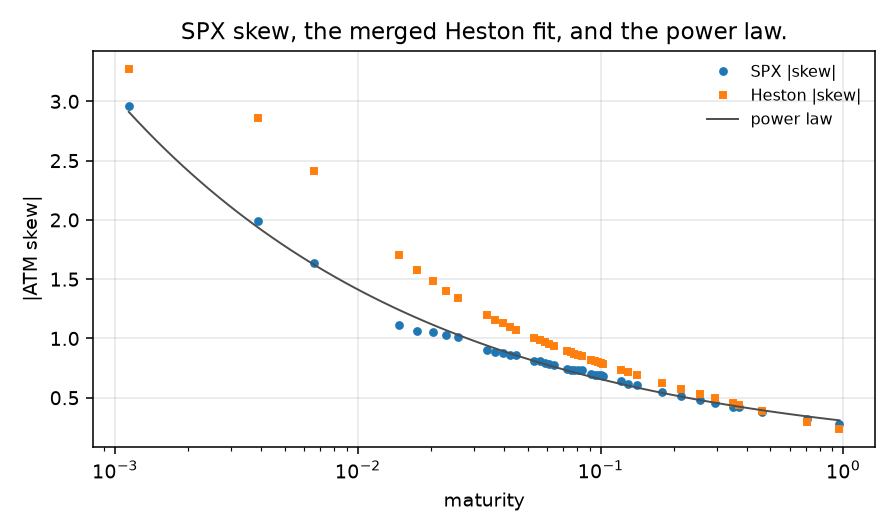
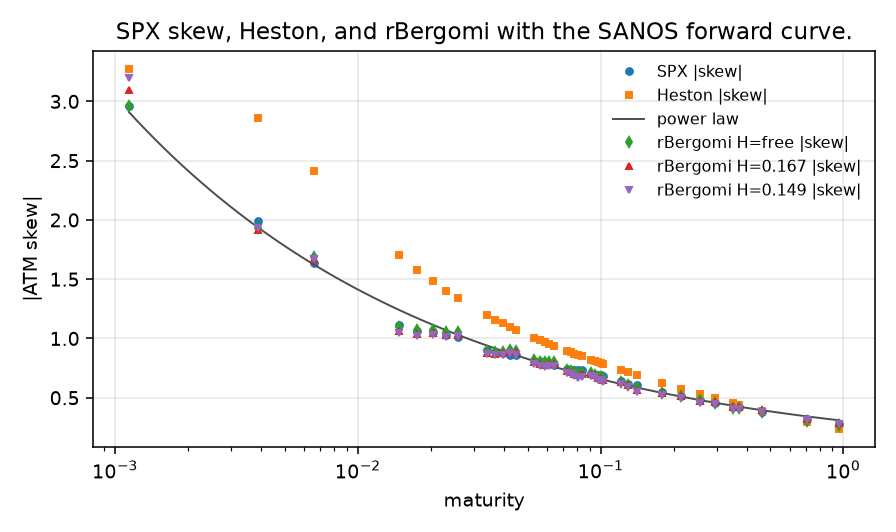
p3e: calibrate rBergomi at free H, 0.167 and 0.149
The SANOS forward curve rises from 0.01637 to 0.06236. With 4,000 paths
and 64 steps the free fit lands at H 0.2057, nu 2.326, rho -0.6593.

diff --git a/docs/notes/p3e_rough_plugin.md b/docs/notes/p3e_rough_plugin.md
@@ -1,27 +1,47 @@
 # The rough-volatility plug-in
 
-Rough Bergomi lives in the `roughvol` package. `create("rbergomi")` is the
-only way this repository builds it. The conformance test imports `roughvol`
-and skips when that import fails. A test double used to exercise the
-calibrator is not that plugin, and the figure does not draw it.
+Rough Bergomi lives in the `roughvol` package. The dev extra pins
+`rough-volatility` at commit `3888dfc`. `create("rbergomi")` is the only
+way this repository builds it. The conformance test imports `roughvol`.
+A test double used to exercise the calibrator is not that plugin, and the
+figure does not draw a double.
 
-The forward variance is the log contract of a SANOS surface,
-`VS(T) = -2 E[log Z_T]`. For the mixture that expectation is exact: an atom
-at strike `K` with kernel variance `v` contributes `log K - v / 2`. Calendar
-order makes `VS` increasing in `T`. The test checks the sign of the
-differences.
+The log contract of a SANOS surface is `VS(T) = -2 E[log Z_T]`. For the
+mixture that expectation is exact: an atom at strike `K` with kernel
+variance `v` contributes `log K - v / 2`. Calendar order makes `VS`
+increasing in `T`. The instantaneous forward variance is the slope of
+that contract. Between pillars
 
-Calibration, when the plugin is installed, matches at-the-money level and
-skew with one seed passed through to the plugin. `H` is free, or fixed at
-0.167, or fixed at 0.149. The vol-of-vol coordinate is `nu`. This
-repository does not contain the hybrid scheme.
+`xi(t) = (VS(T_{j+1}) - VS(T_j)) / (T_{j+1} - T_j)`.
 
-The figure on this machine has no rBergomi curve. `roughvol` is not
-installed, so `create("rbergomi")` is not drawn. The plotted series are the
-SPX at-the-money skew, the merged Heston fit (`v0 = 0.007982`,
-`kappa = 13.466`, `theta = 0.03836`, `xi = 2.703`, `rho = -0.6508`), and
-the power law refit to that market skew. The power law on these 40
-expiries is `0.30511 T^{-0.33283}`. At `T = 0.00114` the market skew is
-`-2.9648` and the Heston skew is `-3.2744`. At `T = 0.96278` the market
-skew is `-0.2815` and the Heston skew is `-0.2387`. The front at-the-money
-level is `0.1511` in the market and `0.0879` in the Heston fit.
+On `[0, T_0]` the level is `VS(T_0) / T_0`. Past the last pillar the last
+level is held. That callable is the `xi0` argument of every plugin
+construction inside `calibrate`. The surface is fit once, at `eta = 0.25`
+and `omega = 0`, and is not refit inside the residual. The plugin default
+`0.04` is a flat 20 percent vol. The fit above does not leave `xi0` there.
+
+Calibration matches at-the-money level and skew on all 40 SPX expiries.
+`H` is free, or fixed at 0.167, or fixed at 0.149. The vol-of-vol
+coordinate is `nu`. Paths use the plugin defaults, 4,000 paths and 64
+steps, and seed 0. This repository does not contain the hybrid scheme.
+
+On this snapshot the SANOS slope is `0.01637` at the first expiry,
+`0.04085` at the middle expiry, and `0.06236` at the last. The curve
+rises with maturity.
+
+The free fit reached `ftol` in 27.4 s: `H = 0.2057`, `nu = 2.326`,
+`rho = -0.6593`, objective `3.039e-2`. With `H` fixed at 0.167 the fit
+reached `ftol` in 29.7 s: `nu = 1.460`, `rho = -0.8231`, objective
+`6.746e-2`. With `H` fixed at 0.149 it reached `ftol` in 24.7 s:
+`nu = 1.247`, `rho = -0.8863`, objective `1.319e-1`. The three
+correlations are inside `(-0.999, 0)`.
+
+At `T = 0.00114` the market skew is `-2.9648`. The free rBergomi skew is
+`-2.9643`, the 0.167 fit is `-3.0938`, and the 0.149 fit is `-3.1969`.
+The Heston skew there is `-3.2744`. At `T = 0.96278` the market skew is
+`-0.2815`, the free fit is `-0.2675`, and the Heston skew is `-0.2387`.
+The front at-the-money level is `0.1511` in the market, `0.1749` in the
+free fit, and `0.0879` in the Heston fit.
+
+The power law on these 40 expiries is `0.30511 T^{-0.33283}`. The figure
+is `docs/figures/p3e_skew.png`.
